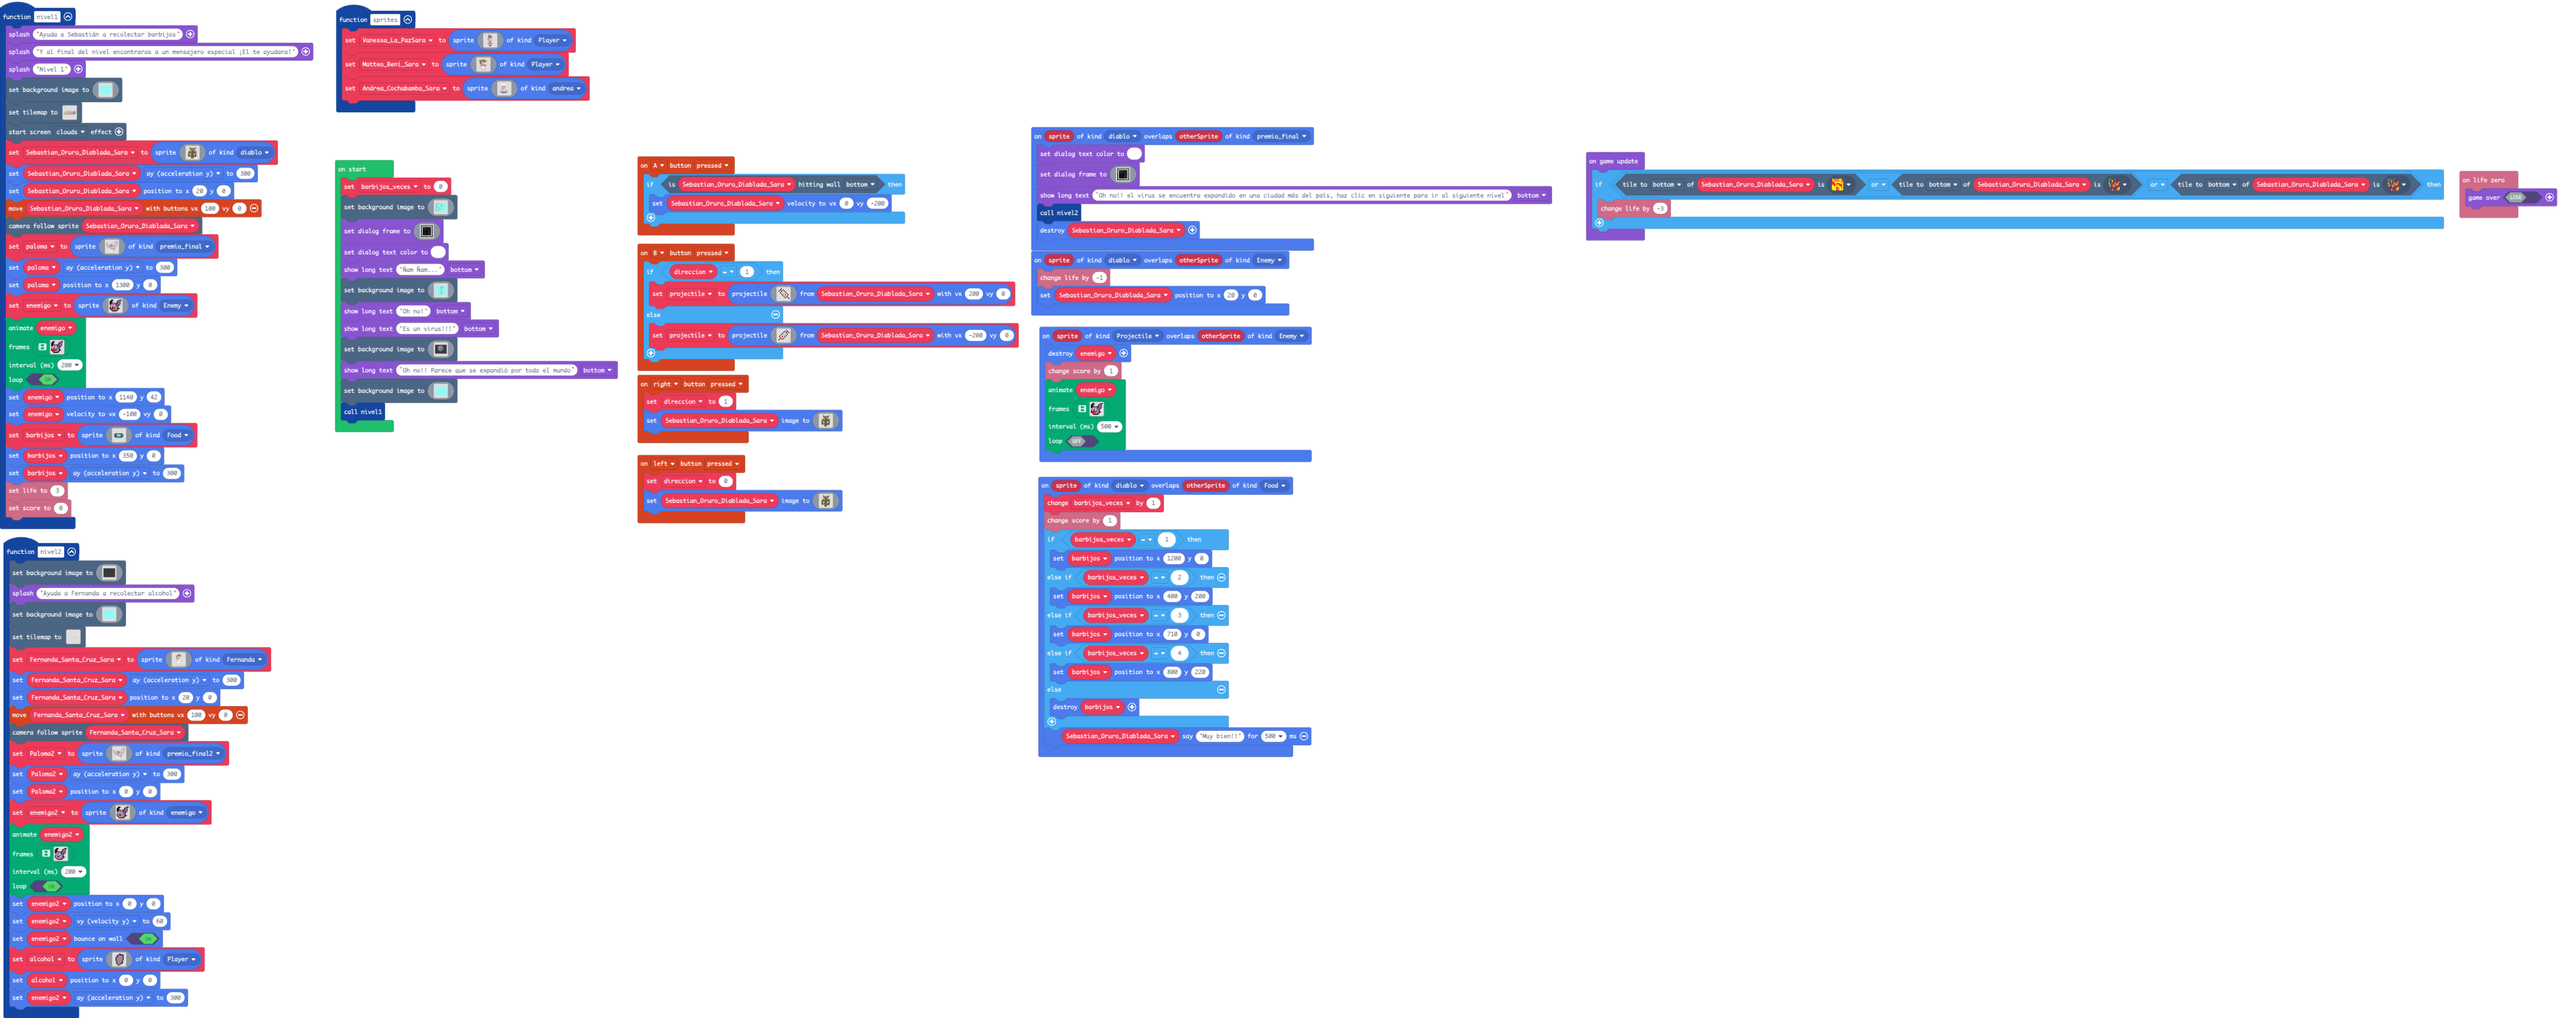
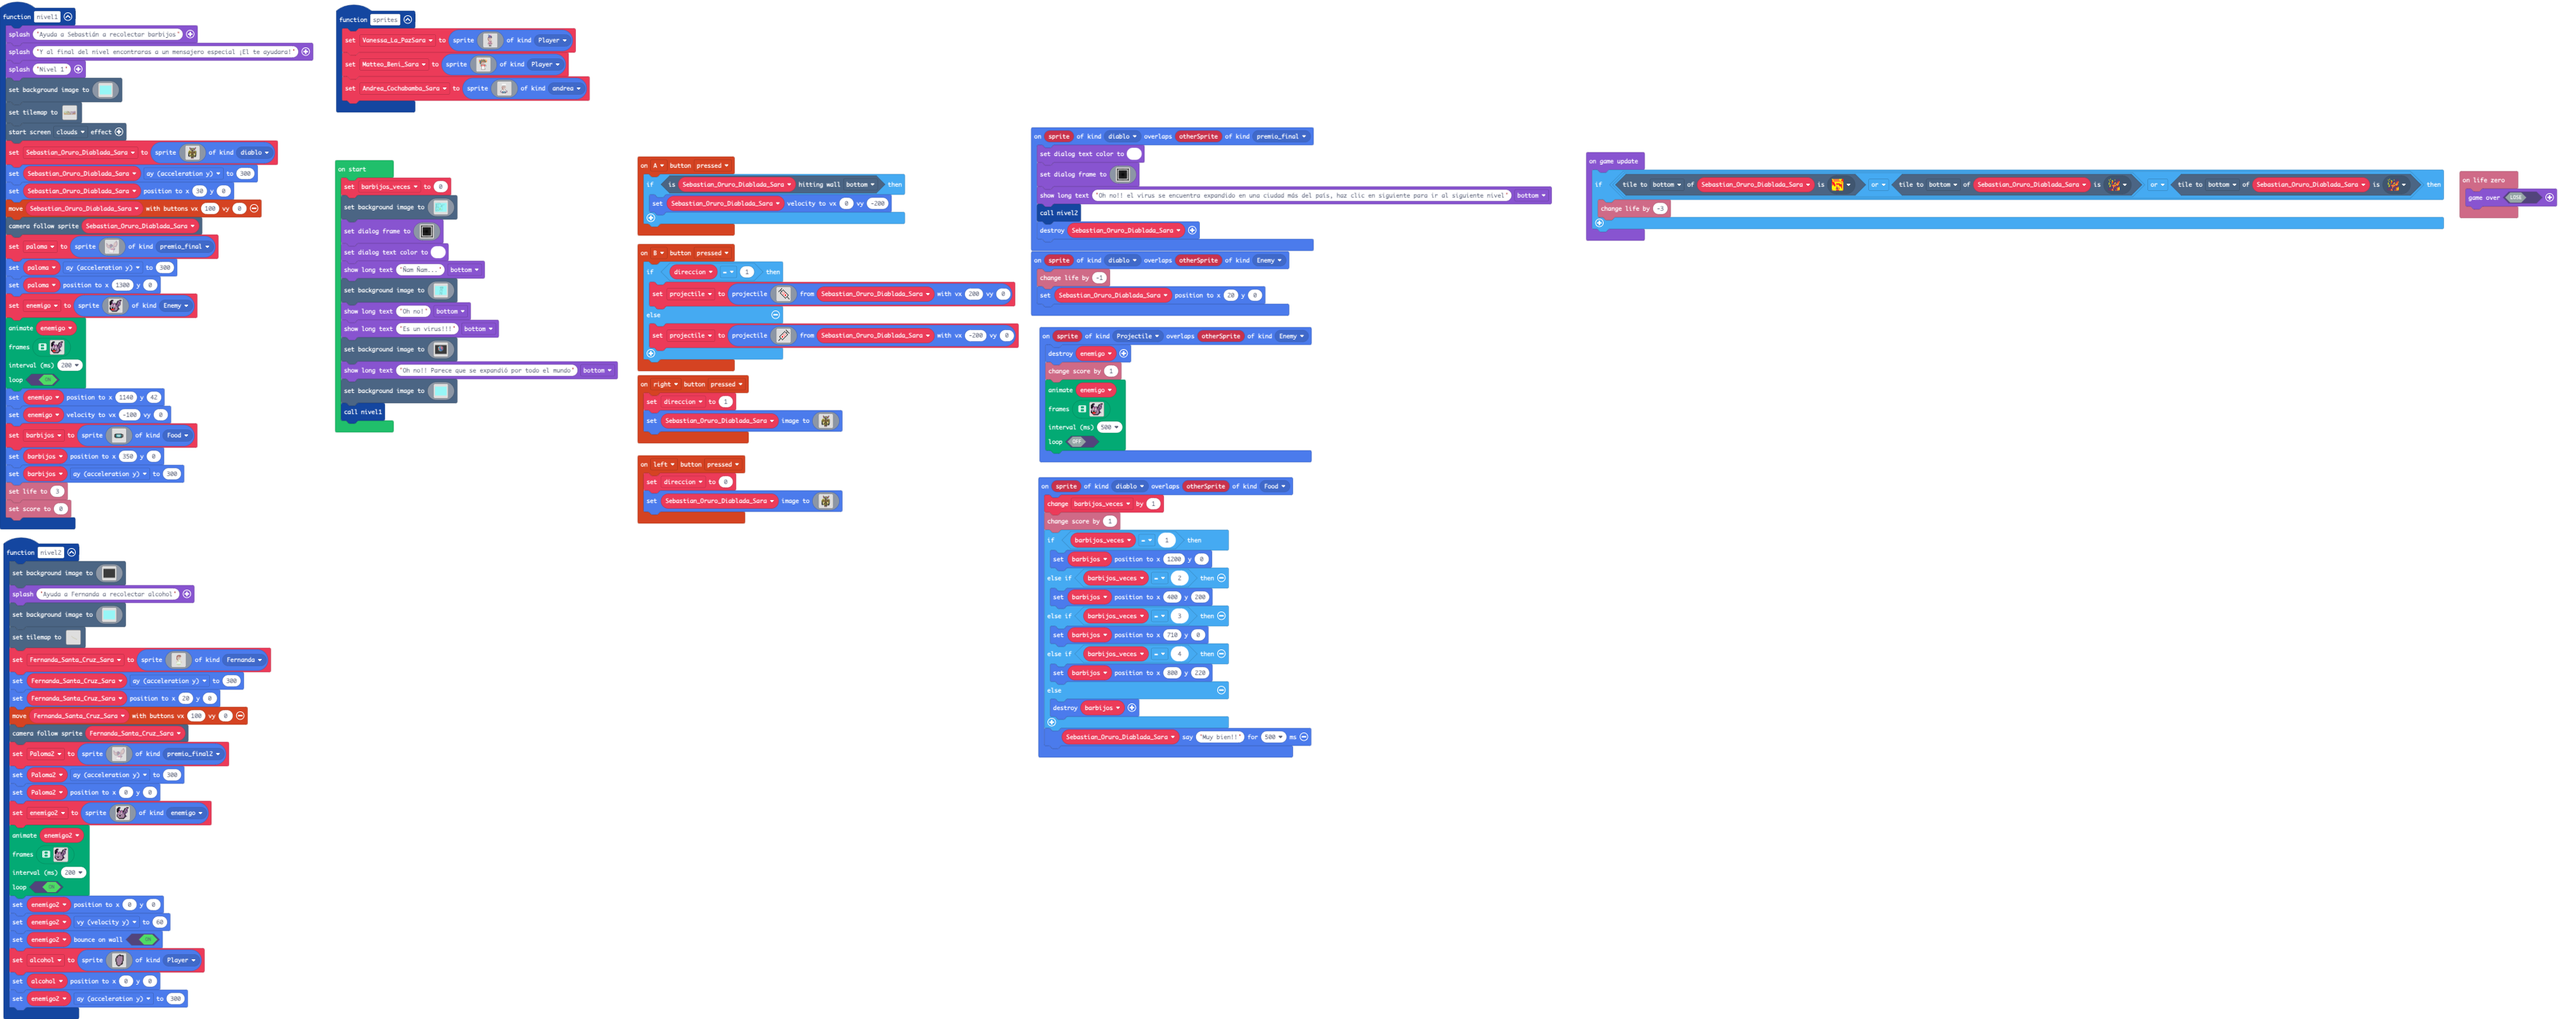
Update main.blocks, main.ts, tilemap.g.jres, tilemap.g.ts

diff --git a/tilemap.g.ts b/tilemap.g.ts
@@ -110,37 +110,6 @@ namespace myTiles {
 . . . . . . . . . . . . . . . . 
 . . . . . . . . . . . . . . . . 
 `, [myTiles.transparency16], TileScale.Sixteen);
-            case "level1":
[1 lines of base64/hex data omitted]
-..........................................................................................
-.............................................................................2............
-.............................................................................2...........2
-.............................................................................2...........2
-222222.....2222222.........22222.............................................2...........2
-22222222...22222222.......22222222222222.........2222222.................22222...........2
-2222222222222222222222....222222222222222.......22......222...222222.........2...........2
-2222222222222.....2222....22222222222222222..............22222222............2...........2
-22.......222..............22..2222222222222..................................2...........2
-22........................22....2222222222...................................2...........2
-22........................22...........22..............................2222222...........2
-22........................22...........22.............................2......2...........2
-22........................22......22222222...........................2.......2..........22
-22222.........2222222222222222222222.2222222222222................222........2.......22222
-22222.............................................22222.......2222...................22222
-22222.............................................222222.............................22222
-22......................................................2............................22222
-2.......222..............................................2...........................22222
-2.......222222......22222222222..........................22...........22222222222222222222
-2........222222222..22222222222............................2........22...................2
-2.................................22222.........22222..............22....................2
-2.............................................22222222...........22......................2
-2.........................................222222222222..........2........................2
-22........................................2222222222222........22........................2
-22.......................22222222222222222222222222222222.....2..........................2
-222222222222222222222222222222222222222222222222222222222.................2222222222222222
-222222222222222222222222222222222222222222222222222222222222..........22222222222222222222
-222222222222222222222222222222222222222222222222222222222222222222222222222222222222222222
-`, [myTiles.transparency16,sprites.builtin.brick,myTiles.tile1,myTiles.tile2,myTiles.tile3,myTiles.tile4,myTiles.tile5,myTiles.tile6,myTiles.tile7,myTiles.tile8,myTiles.tile9,myTiles.tile10,myTiles.tile13,myTiles.tile15,myTiles.tile16,myTiles.tile17,myTiles.tile18,myTiles.tile19,myTiles.tile20,myTiles.tile21,myTiles.tile22,myTiles.tile23,myTiles.tile24,myTiles.tile25,myTiles.tile28,myTiles.tile29,myTiles.tile26,myTiles.tile27,myTiles.tile30,myTiles.tile31,myTiles.tile32,myTiles.tile33,myTiles.tile34,myTiles.tile35,myTiles.tile36,myTiles.tile14,myTiles.tile39,myTiles.tile40,myTiles.tile41], TileScale.Sixteen);
             case "level3":
             case "level3":return tiles.createTilemap(hex`1000100000000000000000000000000000000000000000000000000000000000000000000000000000000000000000000000000000000000000000000000000000000000000000000000000000000000000000000000000000000000000000000000000000000000000000000000000000000000000000000000000000000000000000000000000000000000000000000000000000000000000000000000000000000000000000000000000000000000000000000000000000000000000000000000000000000000000000000000000000000000000000000000000000000000000000000000000000000000000000000000000000000000000000000000000000000000`, img`
 . . . . . . . . . . . . . . . . 
@@ -198,6 +167,37 @@ namespace myTiles {
 . . . . . . . . . . . . . . . . 
 . . . . . . . . . . . . . . . . 
 `, [myTiles.transparency16,sprites.castle.tilePath8], TileScale.Sixteen);
+            case "level1":
[1 lines of base64/hex data omitted]
+..........................................................................................
+.............................................................................2............
+.............................................................................2...........2
+.............................................................................2...........2
+222222.....2222222.........22222.............................................2...........2
+22222222...22222222.......22222222222222.........2222222................222222...........2
+2222222222222222222222....222222222222222.......22......222...22222..........2...........2
+2222222222222.....2222....22222222222222222..............22222222............2...........2
+22.......222..............22..2222222222222..................................2...........2
+22........................22....2222222222...................................2...........2
+22........................22...........22..............................2222222...........2
+22........................22...........22.............................2......2...........2
+22........................22......22222222...........................2.......2..........22
+22222...........22222222222222222222.2222222222222................222........2.......22222
+22222.............................................22222.......2222...................22222
+22222.............................................222222.............................22222
+22......................................................2............................22222
+2.......222..............................................2...........................22222
+2.......222222......22222222222..........................22...........22222222222222222222
+2........222222222..22222222222............................2........22...................2
+2.................................22222.........22222..............22....................2
+2.............................................22222222...........22......................2
+2.........................................222222222222..........2........................2
+22........................................2222222222222........22........................2
+22.......................22222222222222222222222222222222.....2..........................2
+222222222222222222222222222222222222222222222222222222222.................2222222222222222
+222222222222222222222222222222222222222222222222222222222222..........22222222222222222222
+222222222222222222222222222222222222222222222222222222222222222222222222222222222222222222
+`, [myTiles.transparency16,sprites.builtin.brick,myTiles.tile1,myTiles.tile2,myTiles.tile3,myTiles.tile4,myTiles.tile5,myTiles.tile6,myTiles.tile7,myTiles.tile8,myTiles.tile9,myTiles.tile10,myTiles.tile13,myTiles.tile15,myTiles.tile16,myTiles.tile17,myTiles.tile18,myTiles.tile19,myTiles.tile20,myTiles.tile21,myTiles.tile22,myTiles.tile23,myTiles.tile24,myTiles.tile25,myTiles.tile28,myTiles.tile29,myTiles.tile26,myTiles.tile27,myTiles.tile30,myTiles.tile31,myTiles.tile32,myTiles.tile33,myTiles.tile34,myTiles.tile35,myTiles.tile36,myTiles.tile14,myTiles.tile39,myTiles.tile40,myTiles.tile41], TileScale.Sixteen);
         }
         return null;
     })

diff --git a/main.ts b/main.ts
@@ -914,7 +914,7 @@ function nivel1 () {
         ...............eeeeee.eeeeee..............
         `, SpriteKind.diablo)
     Sebastian_Oruro_Diablada_Sara.ay = 300
-    Sebastian_Oruro_Diablada_Sara.setPosition(20, 0)
+    Sebastian_Oruro_Diablada_Sara.setPosition(30, 0)
     controller.moveSprite(Sebastian_Oruro_Diablada_Sara, 100, 0)
     scene.cameraFollowSprite(Sebastian_Oruro_Diablada_Sara)
     paloma = sprites.create(img`
